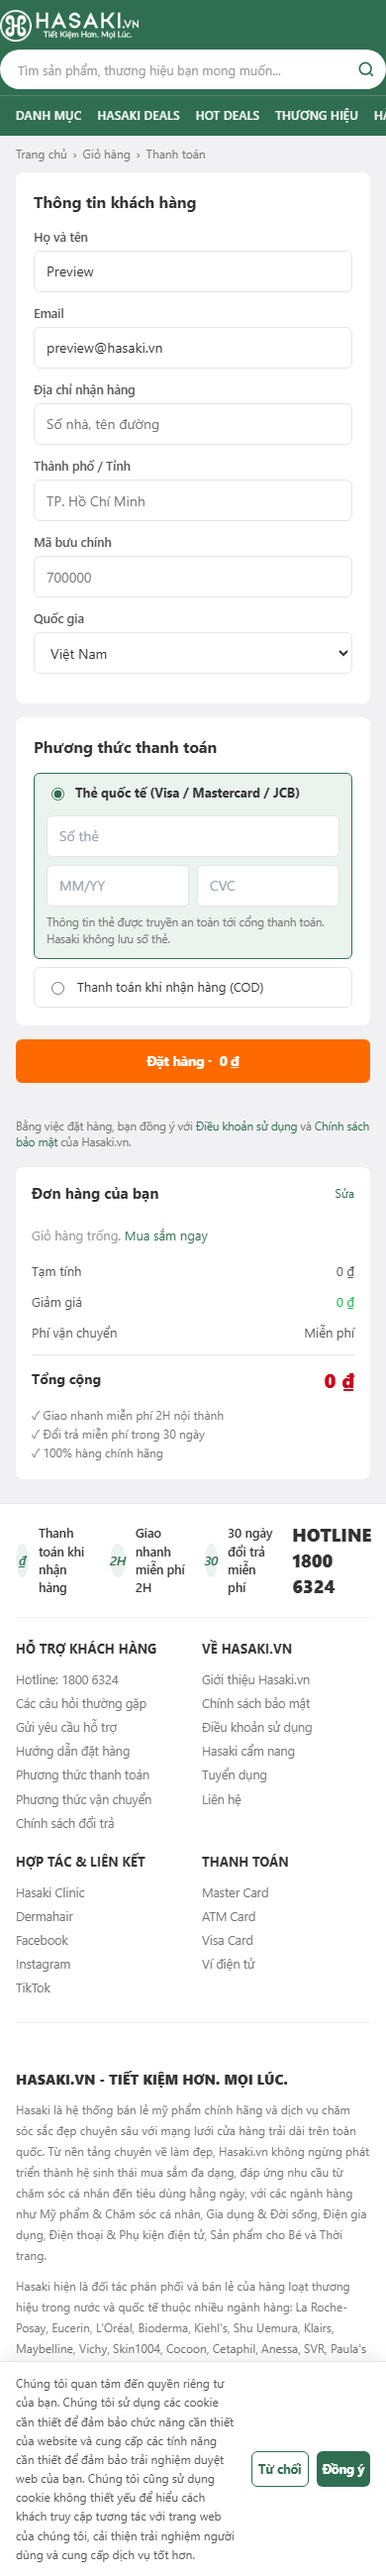
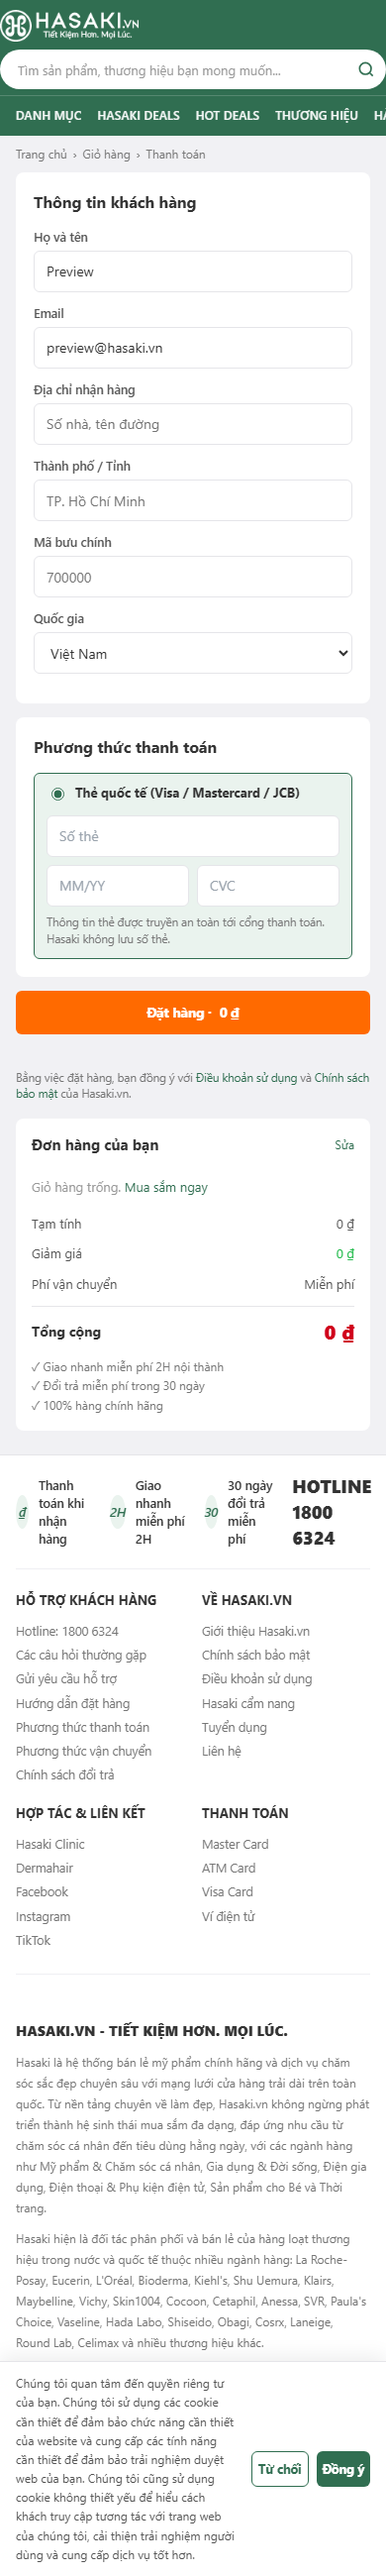
checkout: remove COD option (card payment only)

Changed region(s): [[0.0308, 0.3738, 0.9538, 0.9346]]

diff --git a/site/checkout.html b/site/checkout.html
@@ -102,10 +102,6 @@
                 </div>
                 <div style="font-size:11.5px;color:#777;margin-top:8px">Thông tin thẻ được truyền an toàn tới cổng thanh toán. Hasaki không lưu số thẻ.</div>
               </label>
-              <label class="pay-opt" data-pay="cod">
-                <input type="radio" name="paymethod" value="cod" style="accent-color:#306e51">
-                Thanh toán khi nhận hàng (COD)
-              </label>
             </div>
           </div>
 
